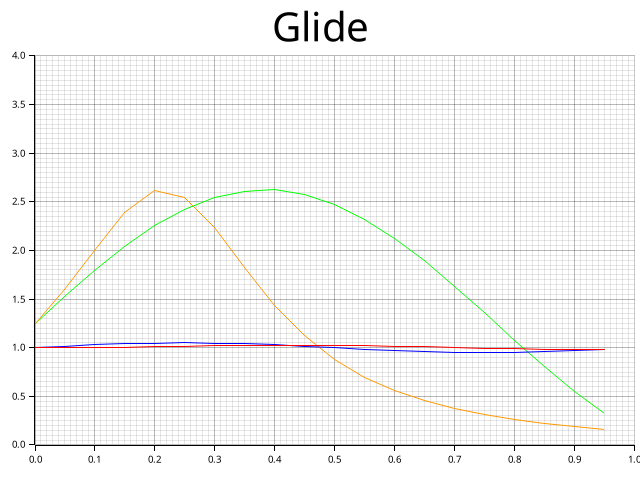
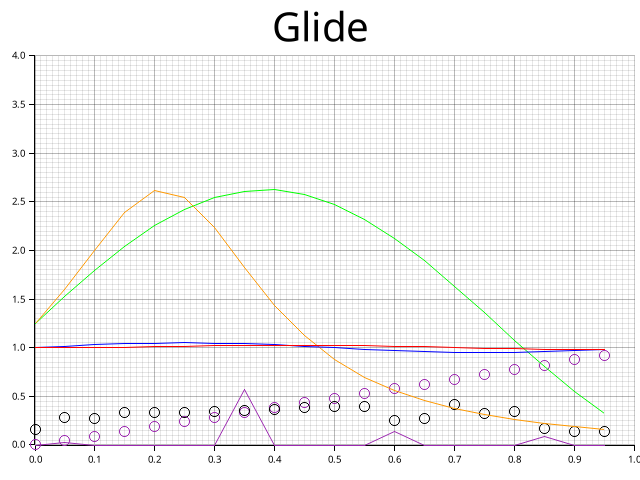
session 3a: pitch period tracking via autocorrelation

diff --git a/src/dsp/window_calc.rs b/src/dsp/window_calc.rs
@@ -1,0 +1,66 @@
+//! Calculations for finding a good window for PSOLA.
+
+use plotters::style::{BLACK, full_palette::PURPLE};
+
+use crate::{audio::buffer::AudioBuffer, plotting::Plot};
+
+const ANALYSIS_WINDOW: usize = 1024;
+
+pub fn find_window_single(buffer: &[f32; ANALYSIS_WINDOW], sample_rate: u32) -> usize {
+    let min_lag = sample_rate as usize / 300;
+    let max_lag = (sample_rate as usize / 80).min(ANALYSIS_WINDOW - 1);
+
+    let mut best_score = f32::NEG_INFINITY;
+    let mut best_lag = min_lag;
+
+    for lag in min_lag..=max_lag {
+        let mut score = 0.0f32;
+
+        for i in 0..(ANALYSIS_WINDOW - lag) {
+            score += buffer[i] * buffer[i + lag];
+        }
+
+        score /= (ANALYSIS_WINDOW - lag) as f32;
+
+        if score > best_score {
+            best_score = score;
+            best_lag = lag;
+        }
+    }
+
+    best_lag
+}
+
+const HOP: usize = ANALYSIS_WINDOW / 4;
+
+pub fn find_window(buffer: &AudioBuffer, plot: &mut Plot) -> Vec<(usize, usize)> {
+    let mut results = Vec::new();
+    let mut start = 0usize;
+
+    while start + ANALYSIS_WINDOW <= buffer.samples.len() {
+        let frame = buffer.samples[start..(start + ANALYSIS_WINDOW)]
+            .as_array()
+            .unwrap();
+        let lag = find_window_single(frame, buffer.sample_rate);
+
+        results.push((start, lag));
+
+        start += HOP;
+    }
+
+    plot.plot_points(
+        |x| results[(x * results.len() as f32) as usize].0 as f32 / buffer.samples.len() as f32,
+        &PURPLE,
+        "Window starts",
+    )
+    .unwrap();
+
+    plot.plot_points(
+        |x| results[(x * results.len() as f32) as usize].1 as f32 / ANALYSIS_WINDOW as f32,
+        &BLACK,
+        "Window lengths",
+    )
+    .unwrap();
+
+    results
+}

diff --git a/src/plotting.rs b/src/plotting.rs
@@ -46,9 +46,9 @@ impl<'a> Plot<'a> {
     pub fn plot(
         &mut self,
         mut func: impl FnMut(f32) -> f32,
-        style: impl Into<ShapeStyle>,
+        style: impl Into<ShapeStyle> + Clone + 'a,
         caption: impl AsRef<str>,
-    ) -> Result<&mut Self, Box<dyn Error>> {
+    ) -> Result<(), Box<dyn Error>> {
         self.chart
             .draw_series(LineSeries::new(
                 self.x_range
@@ -56,9 +56,30 @@ impl<'a> Plot<'a> {
                     .step(self.x_step)
                     .values()
                     .map(|x| (x, func(x))),
-                style,
+                style.clone(),
             ))?
-            .label(caption.as_ref());
-        Ok(self)
+            .label(caption.as_ref())
+            .legend(move |(x, y)| PathElement::new(vec![(x, y), (x + 20, y)], style.clone()));
+        Ok(())
+    }
+    pub fn plot_points(
+        &mut self,
+        mut func: impl FnMut(f32) -> f32,
+        style: impl Into<ShapeStyle> + Clone + 'a,
+        caption: impl AsRef<str>,
+    ) -> Result<(), Box<dyn Error>> {
+        self.chart
+            .draw_series(PointSeries::<(f32, f32), _, Circle<_, _>, i32>::new(
+                self.x_range
+                    .clone()
+                    .step(self.x_step)
+                    .values()
+                    .map(|x| (x, func(x))),
+                5i32,
+                style.clone(),
+            ))?
+            .label(caption.as_ref())
+            .legend(move |(x, y)| PathElement::new(vec![(x, y), (x + 20, y)], style.clone()));
+        Ok(())
     }
 }

diff --git a/src/main.rs b/src/main.rs
@@ -8,11 +8,16 @@ mod plotting;
 
 use std::{error::Error, f32::consts::TAU};
 
+use plotters::style::{
+    BLACK,
+    full_palette::PURPLE,
+};
+
 use crate::{
     audio::wav,
     dsp::{
-        pitch::{pitch_glide, pitch_shift},
-        stretch::time_glide,
+        pitch::pitch_glide,
+        stretch::time_glide, window_calc::find_window,
     },
     phoneme::ipa::Vowel,
     plotting::Plot,
@@ -34,6 +39,14 @@ fn main() -> Result<(), Box<dyn Error>> {
 
         let mut plot = Plot::new(&file_name, "Glide", 0.0..1.0, 0.0..4.0, 0.05)?;
 
+        plot.plot(
+            |x| file.samples[(x * file.samples.len() as f32).floor() as usize] * 4.0,
+            PURPLE,
+            "Input audio",
+        )?;
+
+        find_window(&file, &mut plot);
+
         const VIBRATO_DEPTH: f32 = 1.1;
         const VIBRATO_RATE: f32 = 0.65;
 
@@ -46,6 +59,12 @@ fn main() -> Result<(), Box<dyn Error>> {
             |t| 1.0 + 0.05 * (TAU * t).sin(),
             &mut plot,
         );
+        // plot.plot(
+        //     |x| buf.samples[(x * buf.samples.len() as f32).floor() as usize] * 4.0,
+        //     BLACK,
+        //     "Output audio",
+        // )?;
+
         println!(
             "{ratio}x pitch and time: {} samples ({} sample rate)",
             buf.samples.len(),

diff --git a/src/dsp/mod.rs b/src/dsp/mod.rs
@@ -3,6 +3,7 @@
 pub mod pitch;
 pub mod stretch;
 pub mod window;
+pub mod window_calc;
 
 pub fn low_pass(values: Vec<f32>, alpha: f32) -> Vec<f32> {
     let mut out = vec![0.0f32; values.len()];
